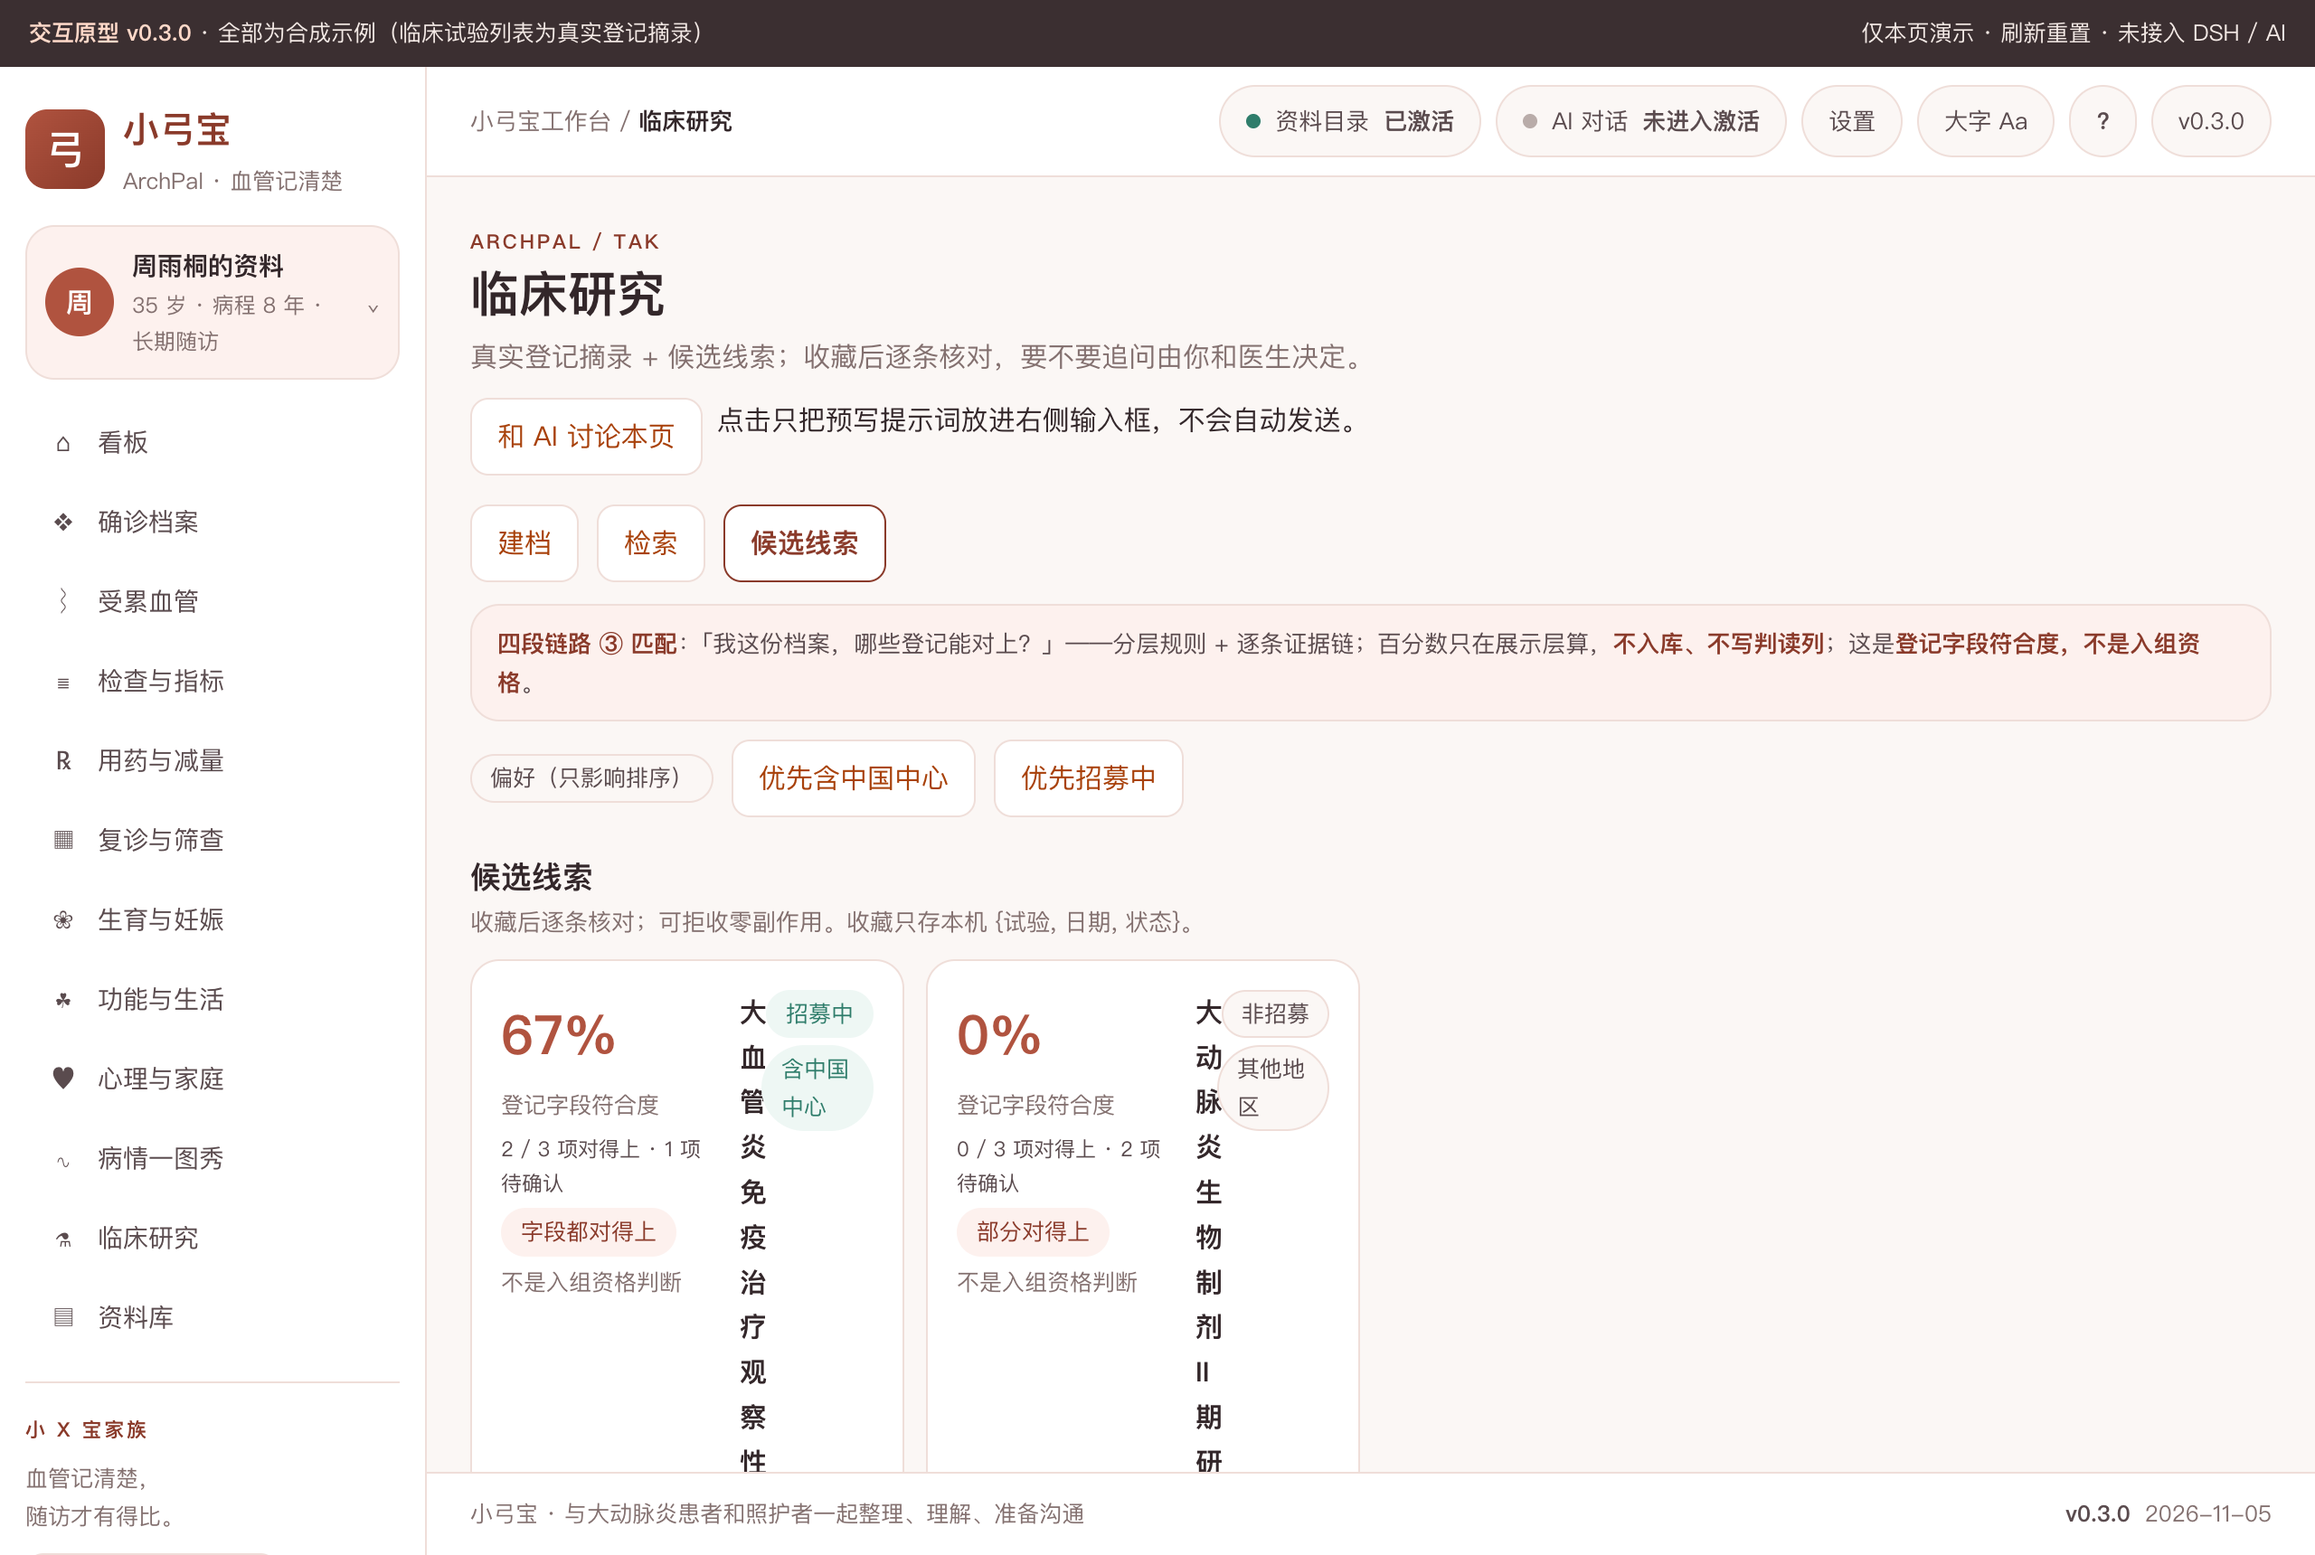
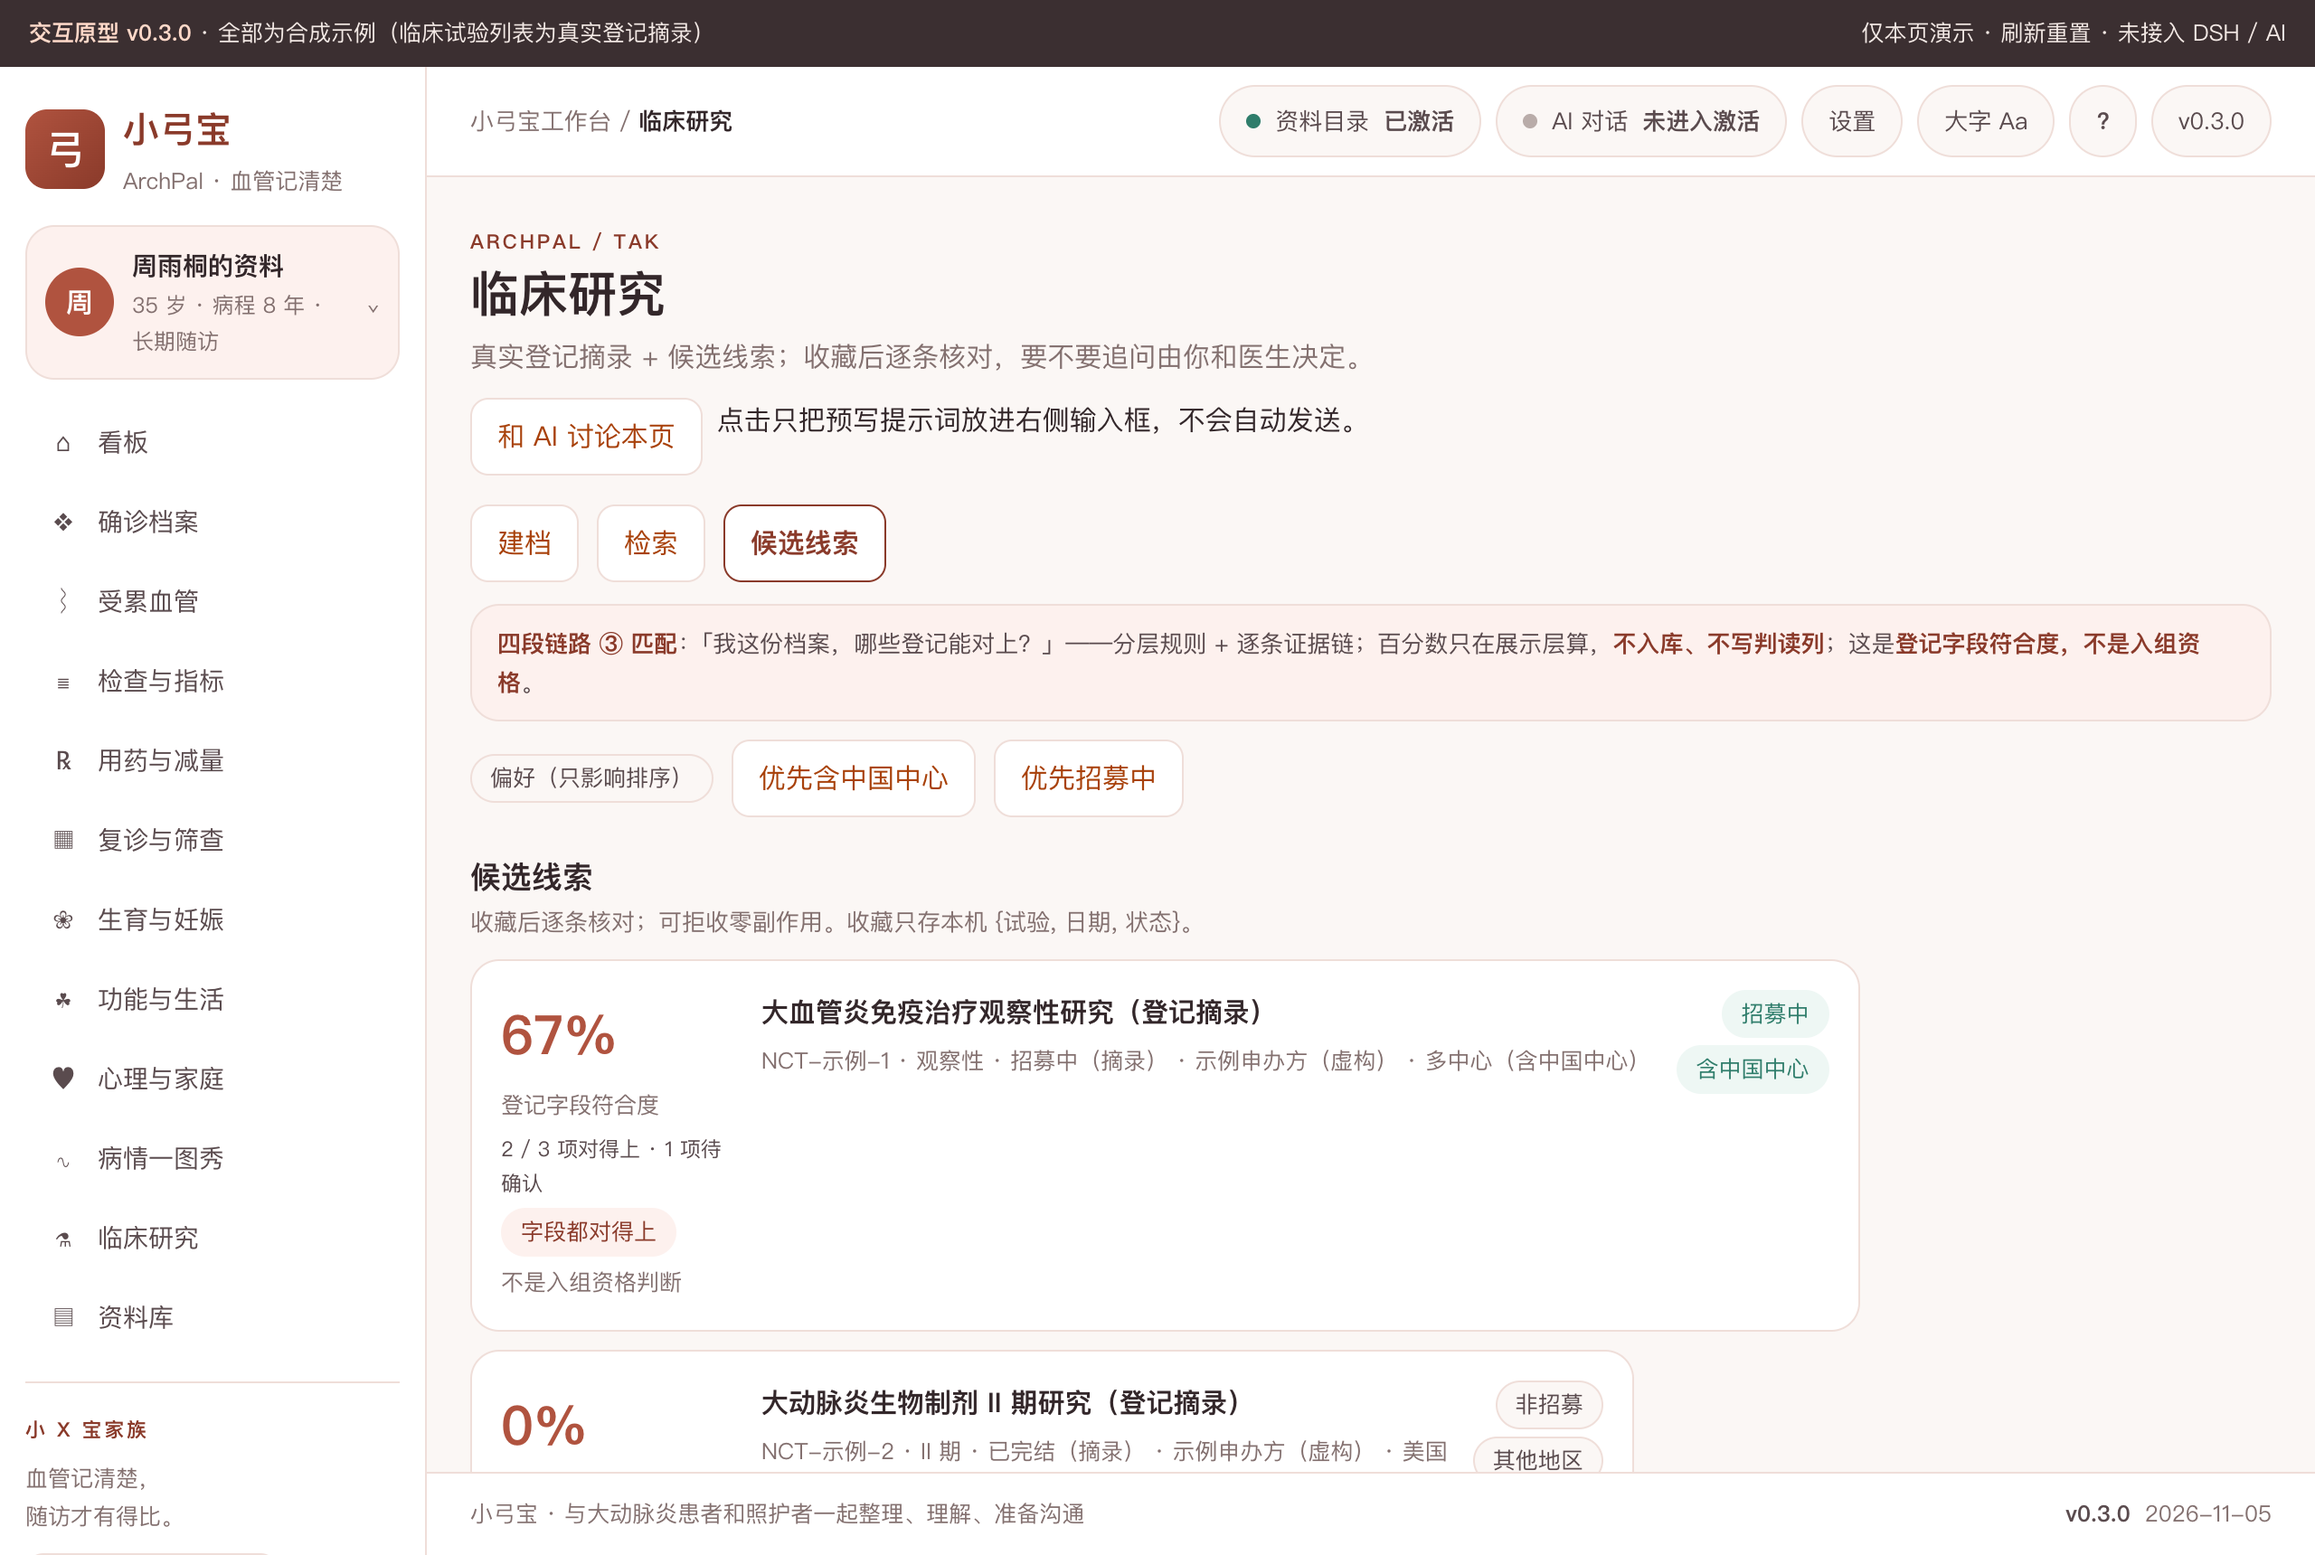
v0.3.1: trial match cards full-width + shrinkable rail column (AI pane no longer collapses chart); repacked and reinstalled to profile (0.3.1 verified)

diff --git a/prototypes/v0.2/style.css b/prototypes/v0.2/style.css
@@ -191,7 +191,7 @@ button, input, select, textarea { font: inherit; color: inherit; }
 .rail-item .rail-last { margin-left: auto; color: var(--muted); font-size: 12px; white-space: nowrap; }
 .rail-note { font-size: 11.5px; color: var(--muted); }
 .chart-main { min-width: 0; }
-.trial-card { display: grid; grid-template-columns: 120px minmax(0,1fr) auto; gap: 12px; margin-bottom: 10px; }
+.trial-card { display: grid; grid-template-columns: 130px minmax(0,1fr) auto; gap: 14px; margin-bottom: 10px; align-items: start; }
 .trial-card .tc-score { display: flex; flex-direction: column; gap: 4px; align-items: flex-start; }
 .trial-card .tc-pct { font-size: 30px; font-weight: 700; color: var(--brand); }
 .trial-card .tc-nm { font-size: 11.5px; color: var(--ink-2); }
@@ -409,7 +409,7 @@ dialog#dialog::backdrop { background: rgba(51, 39, 42, .45); }
 @media (max-width: 900px) {
   .chart-layout { grid-template-columns: 1fr; }
   .trial-card { grid-template-columns: 100px minmax(0,1fr); }
-  .trial-card .tc-tags { grid-column: 1 / -1; flex-direction: row; }
+  .trial-card .tc-tags { grid-column: 1 / -1; flex-direction: row; align-items: flex-start; }
   .workspace { grid-template-columns: 1fr; }
   .sidebar { flex-direction: row; flex-wrap: wrap; align-items: center; border-right: 0; border-bottom: 1px solid var(--line); }
   #nav { flex-direction: row; flex-wrap: wrap; }

diff --git a/public/style.css b/public/style.css
@@ -191,7 +191,7 @@ button, input, select, textarea { font: inherit; color: inherit; }
 .rail-item .rail-last { margin-left: auto; color: var(--muted); font-size: 12px; white-space: nowrap; }
 .rail-note { font-size: 11.5px; color: var(--muted); }
 .chart-main { min-width: 0; }
-.trial-card { display: grid; grid-template-columns: 120px minmax(0,1fr) auto; gap: 12px; margin-bottom: 10px; }
+.trial-card { display: grid; grid-template-columns: 130px minmax(0,1fr) auto; gap: 14px; margin-bottom: 10px; align-items: start; }
 .trial-card .tc-score { display: flex; flex-direction: column; gap: 4px; align-items: flex-start; }
 .trial-card .tc-pct { font-size: 30px; font-weight: 700; color: var(--brand); }
 .trial-card .tc-nm { font-size: 11.5px; color: var(--ink-2); }
@@ -409,7 +409,7 @@ dialog#dialog::backdrop { background: rgba(51, 39, 42, .45); }
 @media (max-width: 900px) {
   .chart-layout { grid-template-columns: 1fr; }
   .trial-card { grid-template-columns: 100px minmax(0,1fr); }
-  .trial-card .tc-tags { grid-column: 1 / -1; flex-direction: row; }
+  .trial-card .tc-tags { grid-column: 1 / -1; flex-direction: row; align-items: flex-start; }
   .workspace { grid-template-columns: 1fr; }
   .sidebar { flex-direction: row; flex-wrap: wrap; align-items: center; border-right: 0; border-bottom: 1px solid var(--line); }
   #nav { flex-direction: row; flex-wrap: wrap; }

diff --git a/prototypes/v0.2/app.js b/prototypes/v0.2/app.js
@@ -965,7 +965,7 @@
       var saved = state.savedTrials || {};
       var savedKeys = Object.keys(saved);
       out += '<div class="section-title"><h2>候选线索</h2><p>收藏后逐条核对；可拒收零副作用。收藏只存本机 {试验, 日期, 状态}。</p></div>';
-      out += '<div class="metric-grid">' + matches.list.map(trialMatchCard).join('') + '</div>';
+      out += '<div>' + matches.list.map(trialMatchCard).join('') + '</div>';
       out += '<div class="section-title"><h2>收藏与跟踪（' + savedKeys.length + '）</h2><p>在跟 / 准备问 / 已归档；快照没有登记状态变化时间线——<b>没有就是没有，不画假进度条</b>。</p></div>';
       if (!savedKeys.length) {
         out += '<div class="empty"><div class="big">还没有收藏</div><p>在匹配卡上点「收藏为线索」。</p></div>';

diff --git a/public/app.js b/public/app.js
@@ -965,7 +965,7 @@
       var saved = state.savedTrials || {};
       var savedKeys = Object.keys(saved);
       out += '<div class="section-title"><h2>候选线索</h2><p>收藏后逐条核对；可拒收零副作用。收藏只存本机 {试验, 日期, 状态}。</p></div>';
-      out += '<div class="metric-grid">' + matches.list.map(trialMatchCard).join('') + '</div>';
+      out += '<div>' + matches.list.map(trialMatchCard).join('') + '</div>';
       out += '<div class="section-title"><h2>收藏与跟踪（' + savedKeys.length + '）</h2><p>在跟 / 准备问 / 已归档；快照没有登记状态变化时间线——<b>没有就是没有，不画假进度条</b>。</p></div>';
       if (!savedKeys.length) {
         out += '<div class="empty"><div class="big">还没有收藏</div><p>在匹配卡上点「收藏为线索」。</p></div>';

diff --git a/lib/version.js b/lib/version.js
@@ -1,9 +1,9 @@
 /* 生成物，勿手改：由 scripts/build-version.mjs 从 VERSION 派生。
    改版本先改 VERSION，再跑 npm run build:version。 */
-export const version = '0.3.0';
-export const displayVersion = 'v0.3.0';
+export const version = '0.3.1';
+export const displayVersion = 'v0.3.1';
 export const channel = 'stable';
 export const channelLabel = '正式';
 export const build = '2026-11-04';
-export const commit = 'cf0c82b';
+export const commit = '04fe670';
 export default { version, displayVersion, channel, channelLabel, build, commit };

diff --git a/lib/client.js b/lib/client.js
@@ -8,7 +8,7 @@ window.__ModuleLoader__.load({
     const __PANEL_LAYOUT__ = {"customFrame":true,"businessSide":"left","businessWidth":0.65,"businessWidthMin":0.55,"businessWidthMax":0.7}
     /* 会话面板参数（默认/最小/最大/步进）同源于 lib/layout.js */
     const __AGENT_PANE__ = {"default":0.35,"min":0.25,"max":0.45,"hideable":true,"resizable":true}
-    const __VERSION__ = "0.3.0"
+    const __VERSION__ = "0.3.1"
 
     /**
      * 宿主接线件 ③：DSH Desktop 工作台客户端外壳。

diff --git a/PROGRESS.md b/PROGRESS.md
@@ -4,7 +4,7 @@
 
 ## 当前状态：M0–M6 走完 + **Inspector 整轮返工完成（v0.3.0，57/57 探针全绿）** + M7/M8 冻结草稿 + M9 回流完成；V2 界面加载/V3 真机闭环待人工（需重启 DSH Desktop）
 
-> 2026-11-05 增补：按 FAMILY-INSPECTOR.md 全项审查（docs/INSPECTOR-2026-11-05.md，16 组失败）完成修复轮：设置三 tab、一图秀 rail、临床研究四段链路（匹配卡 n/m+浮窗证据链+收藏）、全站录入窗（三态按钮+多医院 0003）、看板大状态卡/行动带/快捷卡、字号层级、Logo 块。版本 0.2.0→0.3.0，已重装 DSH Desktop harness profile。
+> 2026-11-05 增补：按 FAMILY-INSPECTOR.md 全项审查（docs/INSPECTOR-2026-11-05.md，16 组失败）完成修复轮：设置三 tab、一图秀 rail、临床研究四段链路（匹配卡 n/m+浮窗证据链+收藏）、全站录入窗（三态按钮+多医院 0003）、看板大状态卡/行动带/快捷卡、字号层级、Logo 块。版本 0.2.0→0.3.1（0.3.1 修匹配卡布局+rail 收缩，已重装 DSH Desktop harness profile 实查 0.3.1）。
 
 ## 里程碑账
 

diff --git a/docs/INSPECTOR-2026-11-05.md b/docs/INSPECTOR-2026-11-05.md
@@ -81,6 +81,6 @@
 - check：staticPass=true（20 步——新增 check-trial-matching.mjs，self-test 10/10）。
 - tests：21/21。audit：44/44 · 0 失败 · 0 待人工。
 - probe-tak-m2：**57/57**（新增 A5/A6/A7/A8/C1/C3/C4/D1/D2/D5/E2/E3b/E4/E4b/E5/E5b/E6/E8/F3/F3b/F4/F4b/F6 共 25 条 Inspector 回归断言）；primer 10/10。
-- 版本：0.2.0 → **0.3.0**（改包必升版；新增 0003 hospital 迁移；已重装 DSH Desktop harness profile 并实查 0.3.0）。
+- 版本：0.2.0 → **0.3.1**（改包必升版；新增 0003 hospital 迁移；0.3.1 修匹配卡布局；已重装 DSH Desktop harness profile 实查）。
 - 截图：13 张 v0.3.0（新增 settings / trials-match）。
 - 修复覆盖：报告 ③ 所列 16 组失败全部关闭（C1–C5、D1–D2、E2–E10、F1–F6、G5、A1/A5/A6/A7/A8、B2）；I2 装机截图仍待人工（DSH Desktop 重启）。

diff --git a/CHANGELOG.md b/CHANGELOG.md
@@ -1,3 +1,7 @@
+## 0.3.1 — 2026-11-05
+
+- 修复匹配卡被窄网格压窄导致标题竖排：候选线索改全宽列表容器；rail 列改 minmax(180px,238px) 可收缩（AI 面板打开时主图不再被压到 0）。
+
 ## 0.3.0 — 2026-11-05（Inspector 整轮返工）
 
 - 按 FAMILY-INSPECTOR.md 全项审查（docs/INSPECTOR-2026-11-05.md，16 组失败）后修复：
